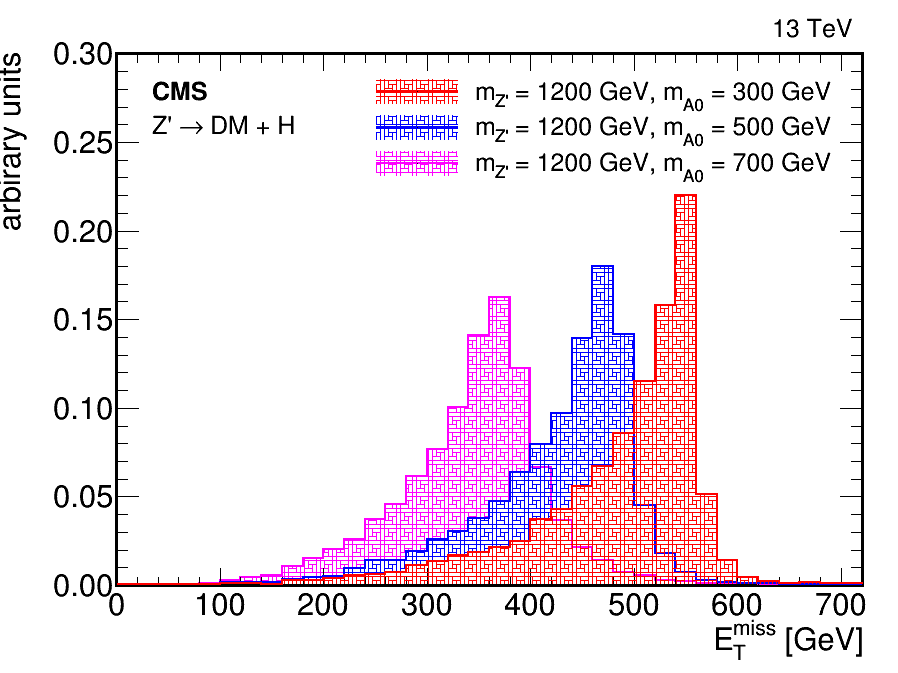
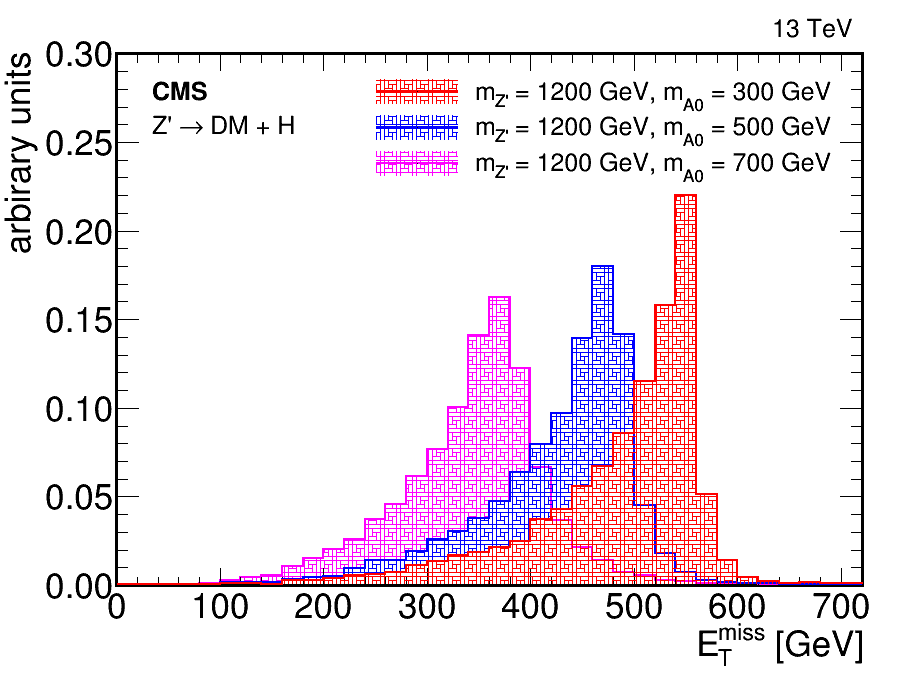
fix text

diff --git a/gz0_8mzp1200mx100/plot.C b/gz0_8mzp1200mx100/plot.C
@@ -22,7 +22,7 @@ void plot()
     setNCUStyle();
 	
     TCanvas *c1 = new TCanvas("c1","ma0",900,700);
-	TLegend* leg = new TLegend(0.4,0.73,0.92,0.89);
+    TLegend* leg = new TLegend(0.4,0.73,0.92,0.89);
 
     TFile *f_mzp1 = TFile::Open("300MA0.root"); //dm=10
     TFile *f_mzp2 = TFile::Open("500MA0.root"); //old
@@ -103,12 +103,12 @@ void plot()
     h_A0m3->GetYaxis()->SetLabelFont(42);
 
 
-    h_A0m1->GetXaxis()->SetTitleSize(0.02);
-    h_A0m1->GetYaxis()->SetTitleSize(0.02);  
-    h_A0m2->GetXaxis()->SetLabelSize(0.02);
-    h_A0m2->GetYaxis()->SetLabelSize(0.02);
-    h_A0m3->GetXaxis()->SetLabelSize(0.05);
-    h_A0m3->GetYaxis()->SetLabelSize(0.05);
+    h_A0m1->GetXaxis()->SetTitleSize(0.04);
+    h_A0m1->GetYaxis()->SetTitleSize(0.04);  
+    h_A0m2->GetXaxis()->SetLabelSize(0.04);
+    h_A0m2->GetYaxis()->SetLabelSize(0.04);
+    h_A0m3->GetXaxis()->SetLabelSize(0.055);
+    h_A0m3->GetYaxis()->SetLabelSize(0.055);
     //h_A0m4->GetXaxis()->SetLabelSize(0.045);
     //h_A0m4->GetYaxis()->SetLabelSize(0.045);
     //h_A0m5->GetXaxis()->SetLabelSize(0.045);
@@ -116,9 +116,9 @@ void plot()
     //h_A0m6->GetXaxis()->SetLabelSize(0.045);
     //h_A0m6->GetYaxis()->SetLabelSize(0.045);
 
-    h_A0m1->GetYaxis()->SetTitleOffset(1.45);
-    h_A0m2->GetYaxis()->SetTitleOffset(1.45);
-    h_A0m3->GetYaxis()->SetTitleOffset(1.45);   
+    h_A0m1->GetYaxis()->SetTitleOffset(1.2);
+    h_A0m2->GetYaxis()->SetTitleOffset(1.2);
+    h_A0m3->GetYaxis()->SetTitleOffset(1.2);   
     //h_A0m4->GetYaxis()->SetTitleOffset(1.45);
     //h_A0m5->GetYaxis()->SetTitleOffset(1.45);
     //h_A0m6->GetYaxis()->SetTitleOffset(1.45);
@@ -135,10 +135,10 @@ void plot()
     // h_A0m2->GetYaxis()->SetRange(0,700);
     // h_A0m3->GetYaxis()->SetRange(0,700);
     h_A0m3->GetYaxis()->SetTitle("arbirary units");
-    h_A0m3->GetYaxis()->SetTitleSize(0.05);
+    h_A0m3->GetYaxis()->SetTitleSize(0.055);
     //h_A0m3->GetYaxis()->CenterTitle();
     h_A0m3->GetXaxis()->SetTitle("E_{T}^{miss} [GeV]");
-    h_A0m3->GetXaxis()->SetTitleSize(0.05);
+    h_A0m3->GetXaxis()->SetTitleSize(0.055);
     //h_A0m3->GetXaxis()->CenterTitle();
     h_A0m3->SetAxisRange(0,700,"X");
     h_A0m3->SetAxisRange(0,0.3,"y");
